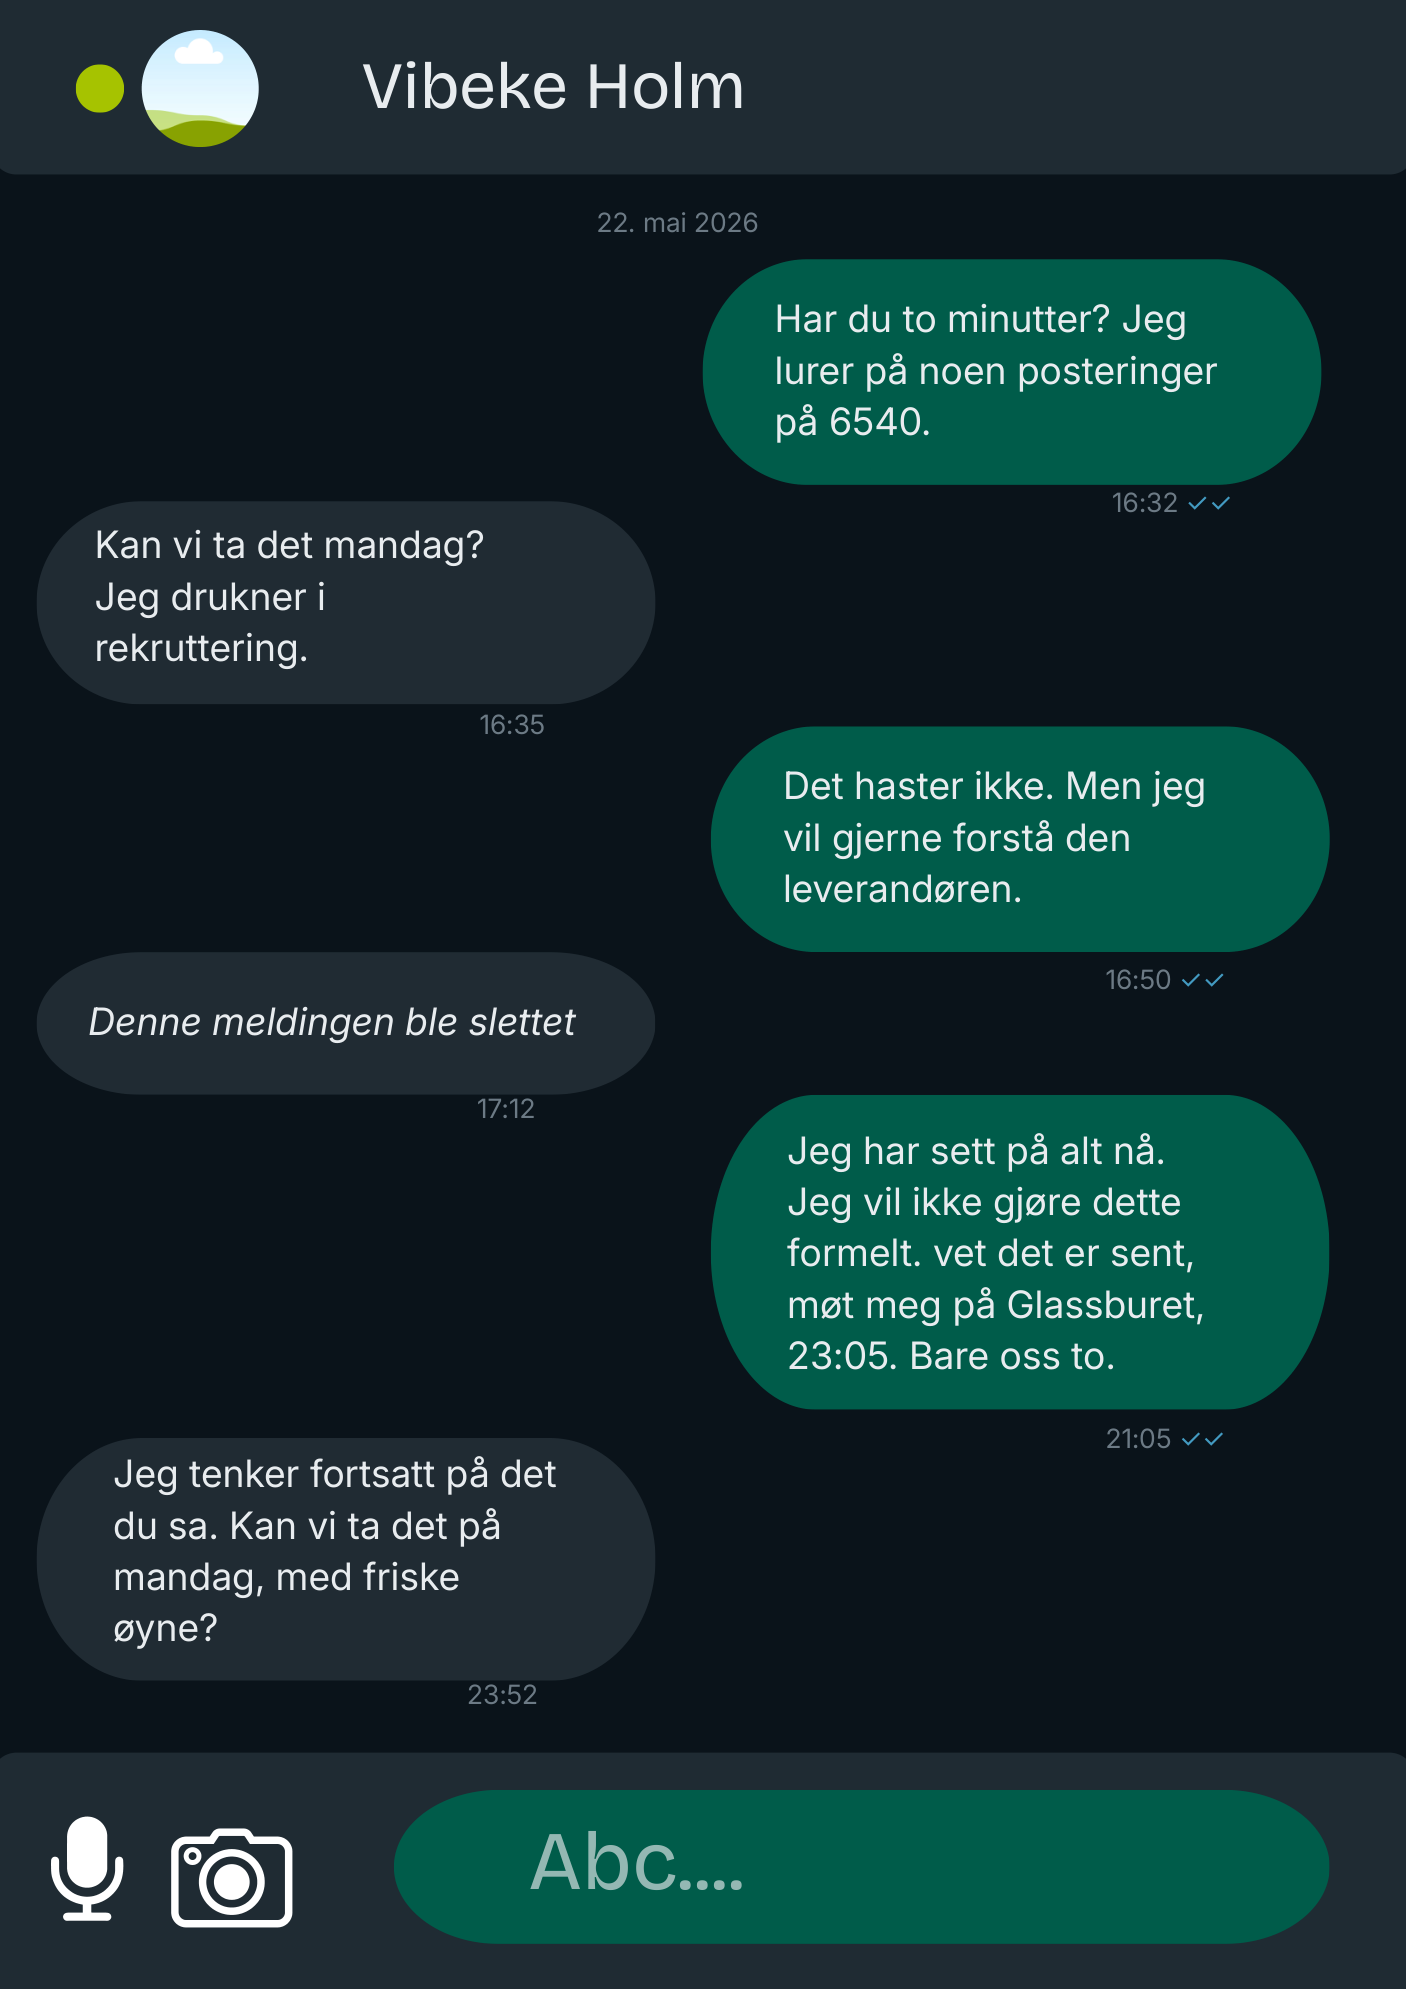
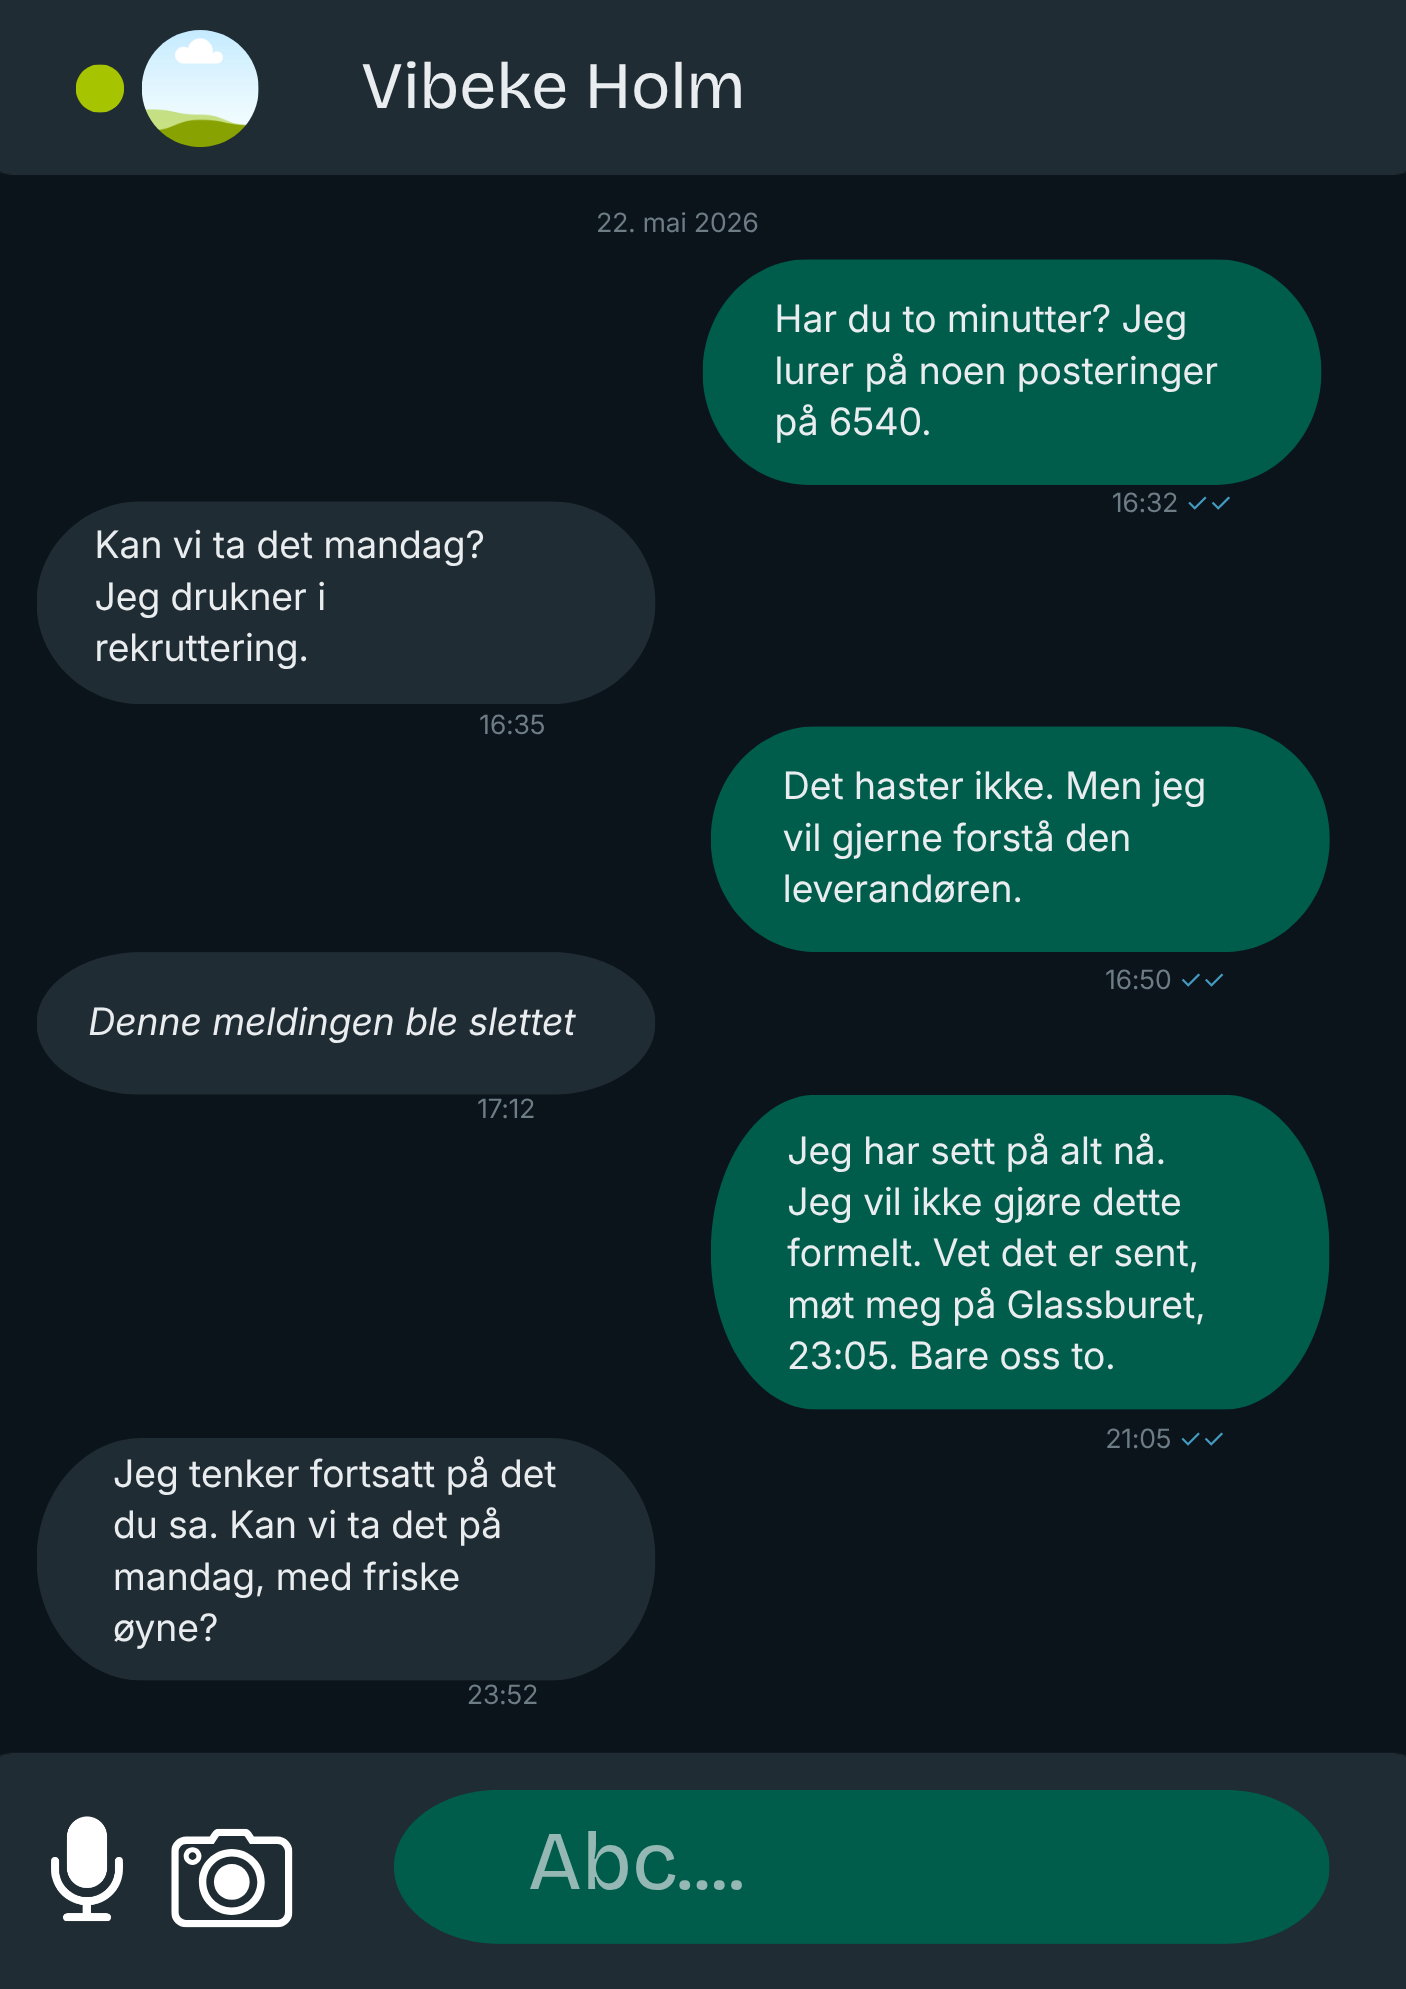
Fengselshotellet: avdekk saksmapper i case-oppgaven én om gangen
Legger til .locked-tilstand og fremdriftstekst slik at spillerne ikke
ser alle sakene på én gang, pluss oppdatert telefon-chat-bilde for Glassburet.

diff --git a/index.html b/index.html
@@ -568,7 +568,7 @@ function solveCard(el, task, i, shownAnswer, gaveUp, explanation){
 /* ---- serial-murder (Fengselshotellet): compact case folders + a focused modal sheet ---- */
 let curCase = null;
 function openCase(c, folder, ctx){
-  if(!folder.classList.contains("pending")) return;
+  if(!folder.classList.contains("pending") || folder.classList.contains("locked")) return;
   curCase = { c, folder, ctx, hintShown:false };
   $("#cs-label").textContent = c.label;
   $("#cs-prompt").textContent = L("Hva avslørte at dette var mord? Stikkord holder.","What revealed this was murder? Keywords are fine.","Kva avslørte at dette var mord? Stikkord held.");
@@ -617,13 +617,18 @@ function wireSerial(el, task, i){
   const caseState={}; task.cases.forEach(c=>caseState[c.id]="pending");
   const note=document.createElement("div"); note.className="serial-note";
   note.textContent = L("💡 Stikkord holder. Du trenger ikke skrive hele setninger.","💡 Keywords are enough. You don't need full sentences.","💡 Stikkord held. Du treng ikkje skrive heile setningar.");
+  const progress=document.createElement("div"); progress.className="serial-progress";
   const grid=document.createElement("div"); grid.className="serial-grid";
   const proceed=document.createElement("button"); proceed.className="brief-start serial-proceed"; proceed.style.display="none"; proceed.textContent = L("Gå videre","Continue","Gå vidare")+" ▸";
   proceed.addEventListener("click", ()=> solveCard(el, task, i, L("Sakene gjennomgått","Cases reviewed","Sakene gjennomgått"), false));
-  function checkAll(){ const done = task.cases.filter(c=>c.isMurder).every(c=> caseState[c.id]==="correct"||caseState[c.id]==="gaveUp"); proceed.style.display = done?"block":"none"; if(done){ layoutBoard(); cameraTo(camForCard(el), reduceMotion?0:300); } }
+  let revealed=0;
+  function updateProgressLabel(){ progress.textContent = L(`Sak ${Math.min(revealed,folders.length)} av ${folders.length} åpnet`,`Case ${Math.min(revealed,folders.length)} of ${folders.length} opened`,`Sak ${Math.min(revealed,folders.length)} av ${folders.length} opna`); }
+  function revealNext(){ if(revealed>=folders.length) return; folders[revealed].classList.remove("locked"); revealed++; updateProgressLabel(); }
+  function checkAll(){ const done = task.cases.filter(c=>c.isMurder).every(c=> caseState[c.id]==="correct"||caseState[c.id]==="gaveUp"); proceed.style.display = done?"block":"none"; if(done){ layoutBoard(); cameraTo(camForCard(el), reduceMotion?0:300); } revealNext(); }
   const ctx = { caseState, checkAll, taskIdx:i };
-  task.cases.forEach(c=>{ const f=document.createElement("button"); f.className="serial-folder pending"; f.textContent=c.label; f.dataset.id=c.id; f.addEventListener("click", ()=> openCase(c, f, ctx)); grid.appendChild(f); });
-  container.appendChild(note); container.appendChild(grid); container.appendChild(proceed);
+  const folders = task.cases.map(c=>{ const f=document.createElement("button"); f.className="serial-folder pending locked"; f.textContent=c.label; f.dataset.id=c.id; f.addEventListener("click", ()=> openCase(c, f, ctx)); grid.appendChild(f); return f; });
+  revealNext();
+  container.appendChild(note); container.appendChild(progress); container.appendChild(grid); container.appendChild(proceed);
 }
 
 /* ---- audio player on a card (mirrors the original) ---- */

diff --git a/style.css b/style.css
@@ -270,6 +270,10 @@ button{ font-family:inherit; cursor:pointer; border:none; background:none; color
 .serial-folder.wrong::after{ content:"✕"; color:var(--stamp); }
 .serial-folder.missed{ background:linear-gradient(160deg,#e7d39a,#d9c074); border-color:rgba(201,168,76,.7); }
 .serial-folder.missed::after{ content:"?"; color:#8a6d1c; }
+.serial-folder.locked{ background:linear-gradient(160deg,#d9d3c4,#c3bca9); border-color:rgba(60,42,18,.14); color:rgba(58,47,26,.4); box-shadow:none; cursor:default; pointer-events:none; }
+.serial-folder.locked::before{ opacity:.35; }
+.serial-folder.locked::after{ content:"🔒"; font-size:.66rem; opacity:.5; }
+.serial-progress{ font-size:.64rem; letter-spacing:.14em; text-transform:uppercase; color:var(--ink-faint); margin:-4px 0 10px; text-align:center; }
 .serial-proceed{ margin-top:14px; }
 .case-sheet{ position:fixed; inset:0; z-index:90; display:none; align-items:flex-start; justify-content:center; padding:9vh 16px 16px; background:rgba(20,12,4,.55); }
 .case-sheet.open{ display:flex; animation:fade .25s var(--ease); }
